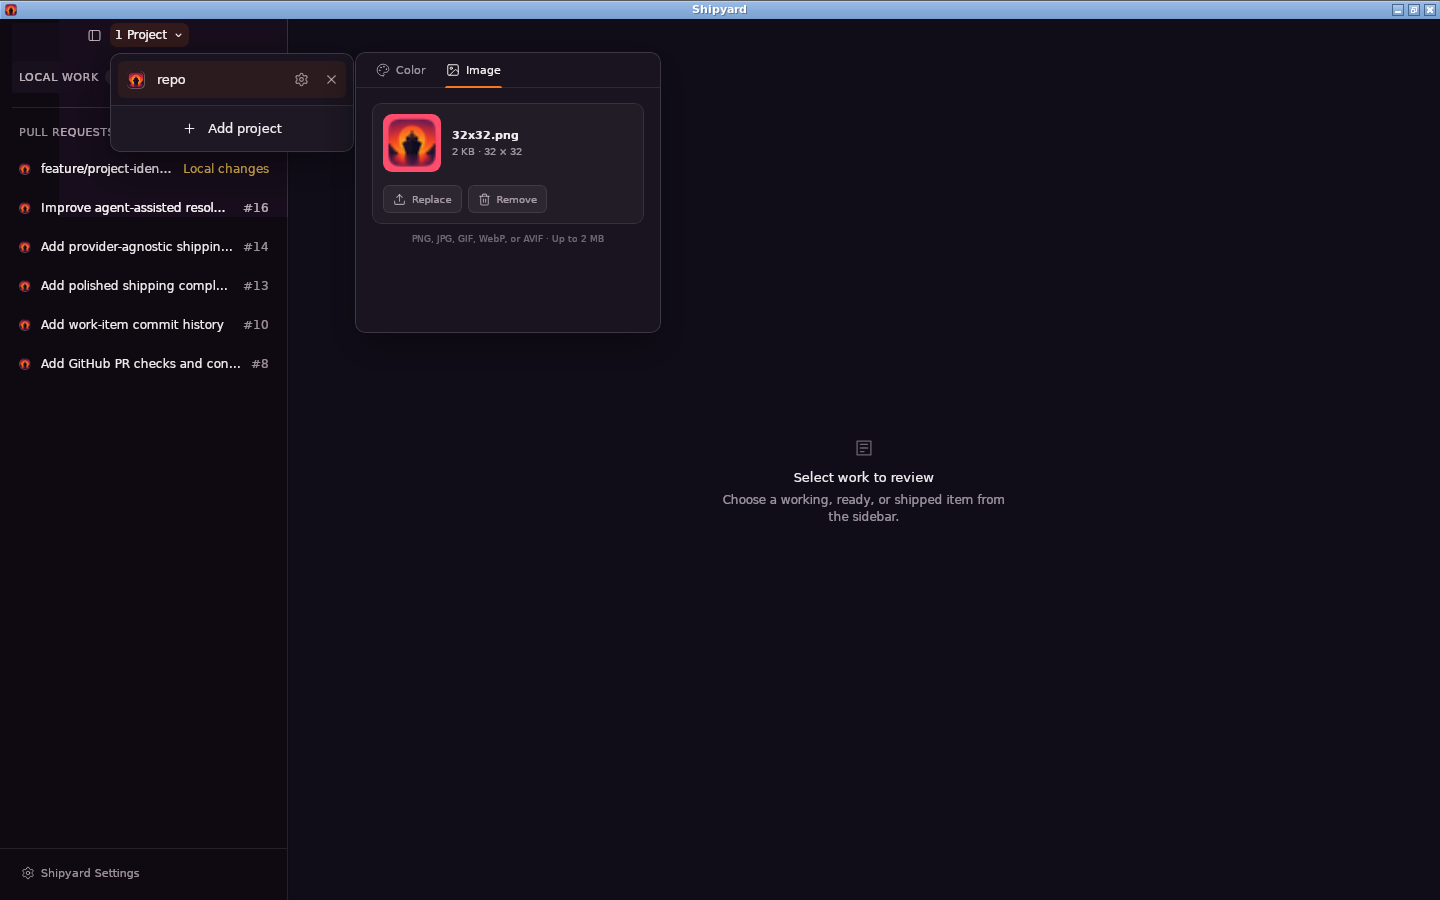
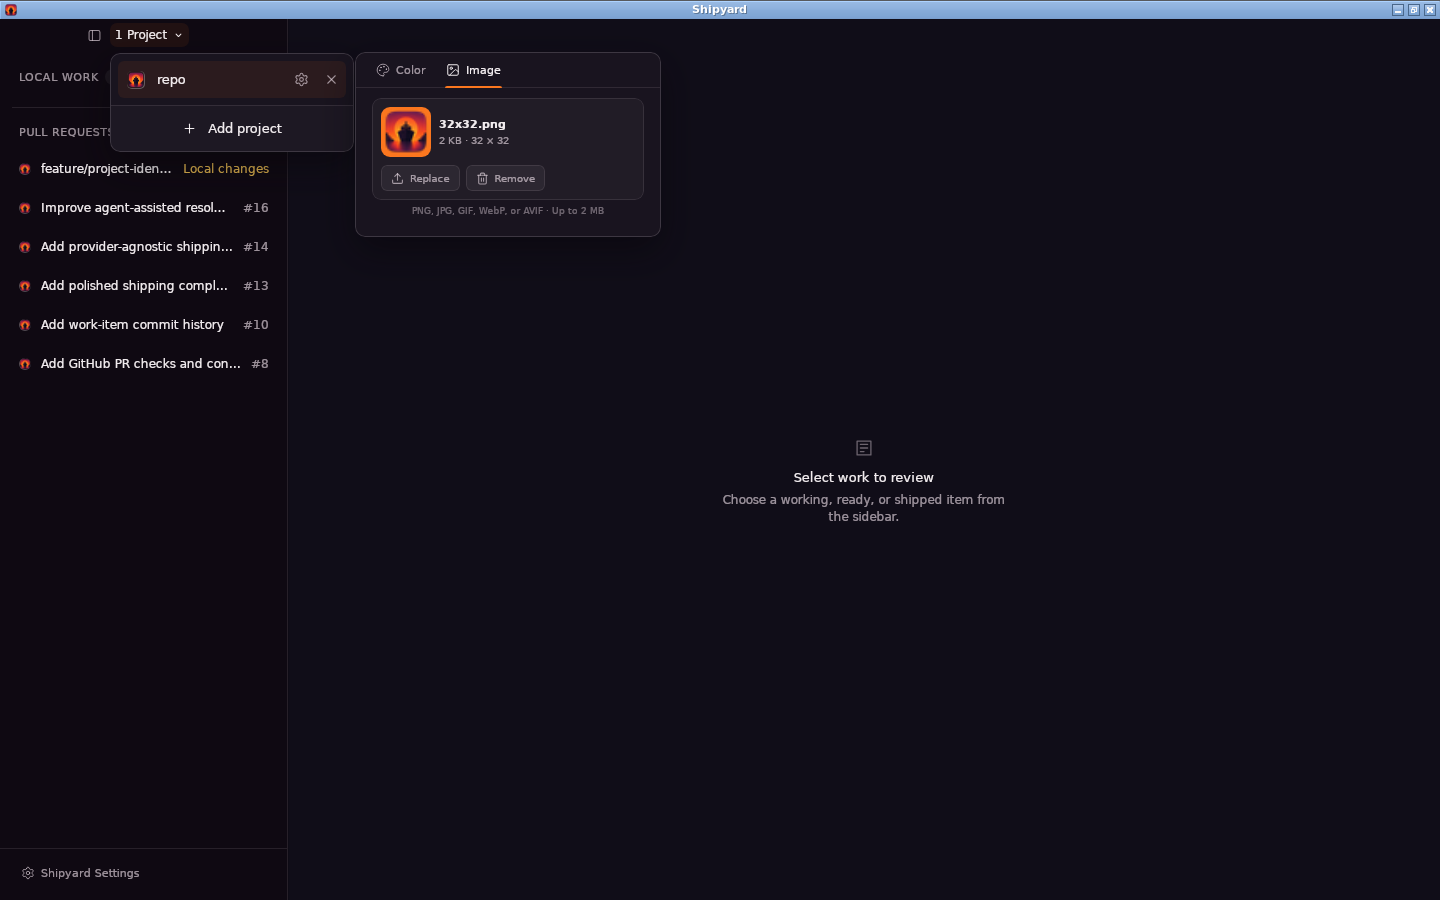
Tighten project identity popover layout
Amp-Thread-ID: https://ampcode.com/threads/T-019ff57f-8308-76d0-9d02-b5bf298bdaa6

Changed region(s): [[0.25, 0.0933, 0.4062, 0.28], [0.0312, 0.0622, 0.0625, 0.0933]]

diff --git a/src/components/sidebar/ProjectIdentityPopover.vue b/src/components/sidebar/ProjectIdentityPopover.vue
@@ -24,7 +24,6 @@ const IMAGE_TYPE_BY_EXTENSION: Record<string, string> = {
 
 const props = defineProps<{
   project: Project;
-  defaultColor: string;
 }>();
 
 const emit = defineEmits<{
@@ -84,11 +83,6 @@ function moveTab(event: KeyboardEvent) {
   event.preventDefault();
   activeTab.value = tabs[next];
   focusTab(tabs[next]);
-}
-
-function chooseColor(color: string | null) {
-  customColor.value = color ?? props.defaultColor;
-  emit('color', color);
 }
 
 function chooseCustomColor(event: Event) {
@@ -226,17 +220,12 @@ function removeImage() {
 
     <div
       v-if="activeTab === 'color'"
-      class="identity-tab-panel identity-tab-panel--color"
+      class="identity-tab-panel"
       role="tabpanel"
       :id="`${popoverId}-color-panel`"
       :aria-labelledby="`${popoverId}-color-tab`"
     >
-      <div class="identity-color__intro">
-        <div>
-          <strong>Choose a color</strong>
-          <span>{{ project.colorOverride ? 'Custom project color' : 'Generated default' }}</span>
-        </div>
-      </div>
+      <strong class="identity-color__label">Choose a color</strong>
 
       <label class="custom-color-choice">
         <span class="custom-color-choice__input" :style="{ background: customColor }">
@@ -252,20 +241,11 @@ function removeImage() {
           <small>{{ customColor.toUpperCase() }}</small>
         </span>
       </label>
-
-      <button
-        v-if="project.colorOverride"
-        class="identity-color__reset"
-        type="button"
-        @click="chooseColor(null)"
-      >
-        Use generated default · {{ defaultColor.toUpperCase() }}
-      </button>
     </div>
 
     <div
       v-else
-      class="identity-tab-panel identity-tab-panel--image"
+      class="identity-tab-panel"
       role="tabpanel"
       :id="`${popoverId}-image-panel`"
       :aria-labelledby="`${popoverId}-image-tab`"
@@ -382,38 +362,18 @@ function removeImage() {
 }
 
 .identity-tab-panel {
-  padding: 15px 16px 14px;
+  min-height: 148px;
+  padding: 10px 16px 8px;
 }
 
-.identity-tab-panel--color {
-  min-height: 168px;
-}
-
-.identity-tab-panel--image {
-  min-height: 244px;
-}
-
-.identity-color__intro {
-  display: flex;
-  align-items: flex-start;
-  margin-bottom: 12px;
-}
-
-.identity-color__intro strong,
+.identity-color__label,
 .custom-color-choice__copy strong {
   display: block;
   font-size: 12px;
   font-weight: 550;
 }
 
-.identity-color__intro span {
-  display: block;
-  margin-top: 4px;
-  font-size: 10px;
-  color: var(--text-secondary);
-}
 .custom-color-choice:focus-within,
-.identity-color__reset:focus-visible,
 .identity-image__actions button:focus-visible,
 .identity-image__empty button:focus-visible,
 .identity-image__remove-failed:focus-visible,
@@ -435,6 +395,7 @@ function removeImage() {
   align-items: center;
   gap: 9px;
   width: 100%;
+  margin-top: 8px;
   min-height: 50px;
   padding: 8px 10px;
   cursor: pointer;
@@ -477,31 +438,16 @@ function removeImage() {
   color: var(--text-muted);
 }
 
-.identity-color__reset {
-  display: block;
-  margin: 9px 0 0;
-  padding: 0;
-  font: inherit;
-  font-size: 10px;
-  color: var(--text-secondary);
-  background: transparent;
-  border: 0;
-}
-
-.identity-color__reset:hover {
-  color: var(--text-primary);
-}
-
 .identity-image__input {
   display: none;
 }
 
 .identity-image__preview-card {
   display: grid;
-  grid-template-columns: 58px minmax(0, 1fr);
-  gap: 11px;
+  grid-template-columns: 50px minmax(0, 1fr);
+  gap: 8px;
   align-items: center;
-  padding: 10px;
+  padding: 8px;
   background: rgba(255, 255, 255, 0.035);
   border: 1px solid var(--border-subtle);
   border-radius: 9px;
@@ -509,8 +455,8 @@ function removeImage() {
 
 .identity-image__preview {
   display: grid;
-  width: 58px;
-  height: 58px;
+  width: 50px;
+  height: 50px;
   overflow: hidden;
   place-items: center;
   border-radius: 9px;
@@ -549,7 +495,6 @@ function removeImage() {
   display: flex;
   grid-column: 1 / -1;
   gap: 6px;
-  padding-top: 2px;
 }
 
 .identity-image__actions button,
@@ -558,7 +503,7 @@ function removeImage() {
   align-items: center;
   justify-content: center;
   gap: 6px;
-  height: 28px;
+  height: 26px;
   padding: 0 9px;
   font: inherit;
   font-size: 10px;
@@ -589,11 +534,11 @@ function removeImage() {
 
 .identity-image__empty {
   display: flex;
-  min-height: 203px;
+  min-height: 110px;
   align-items: center;
   justify-content: center;
   flex-direction: column;
-  padding: 18px 14px;
+  padding: 6px 10px;
   text-align: center;
   background: rgba(255, 255, 255, 0.025);
   border: 1px dashed rgba(255, 240, 248, 0.17);
@@ -602,9 +547,9 @@ function removeImage() {
 
 .identity-image__empty-icon {
   display: grid;
-  width: 42px;
-  height: 42px;
-  margin-bottom: 10px;
+  width: 32px;
+  height: 32px;
+  margin-bottom: 4px;
   place-items: center;
   color: var(--primary-hover);
   background: var(--primary-subtle);
@@ -613,8 +558,8 @@ function removeImage() {
 }
 
 .identity-image__empty-icon svg {
-  width: 21px;
-  height: 21px;
+  width: 17px;
+  height: 17px;
   stroke-width: 1.4;
 }
 
@@ -625,9 +570,9 @@ function removeImage() {
 
 .identity-image__empty > span:not(.identity-image__empty-icon) {
   max-width: 220px;
-  margin: 5px 0 13px;
-  font-size: 10px;
-  line-height: 1.4;
+  margin: 3px 0 6px;
+  font-size: 9px;
+  line-height: 1.25;
   color: var(--text-secondary);
 }
 
@@ -664,7 +609,7 @@ function removeImage() {
 }
 
 .identity-image__hint {
-  margin: 10px 0 0;
+  margin: 6px 0 0;
   font-size: 9px;
   color: var(--text-muted);
   text-align: center;

diff --git a/src/components/sidebar/ProjectSwitcher.vue b/src/components/sidebar/ProjectSwitcher.vue
@@ -5,7 +5,6 @@ import AppButton from '../ui/AppButton.vue';
 import ProjectIcon from '../ui/ProjectIcon.vue';
 import ProjectIdentityPopover from './ProjectIdentityPopover.vue';
 import type { Project, ProjectCustomization } from '../../types/projects';
-import { projectDefaultColor } from '../../utils/projectIdentity';
 
 const props = defineProps<{
   projects: Project[];
@@ -147,7 +146,6 @@ onBeforeUnmount(() => {
             <ProjectIdentityPopover
               v-if="identityProjectId === project.id"
               :project="project"
-              :default-color="projectDefaultColor(project.id)"
               @color="updateIdentity(project.id, { color: $event })"
               @image="updateIdentity(project.id, { image: $event })"
             />
